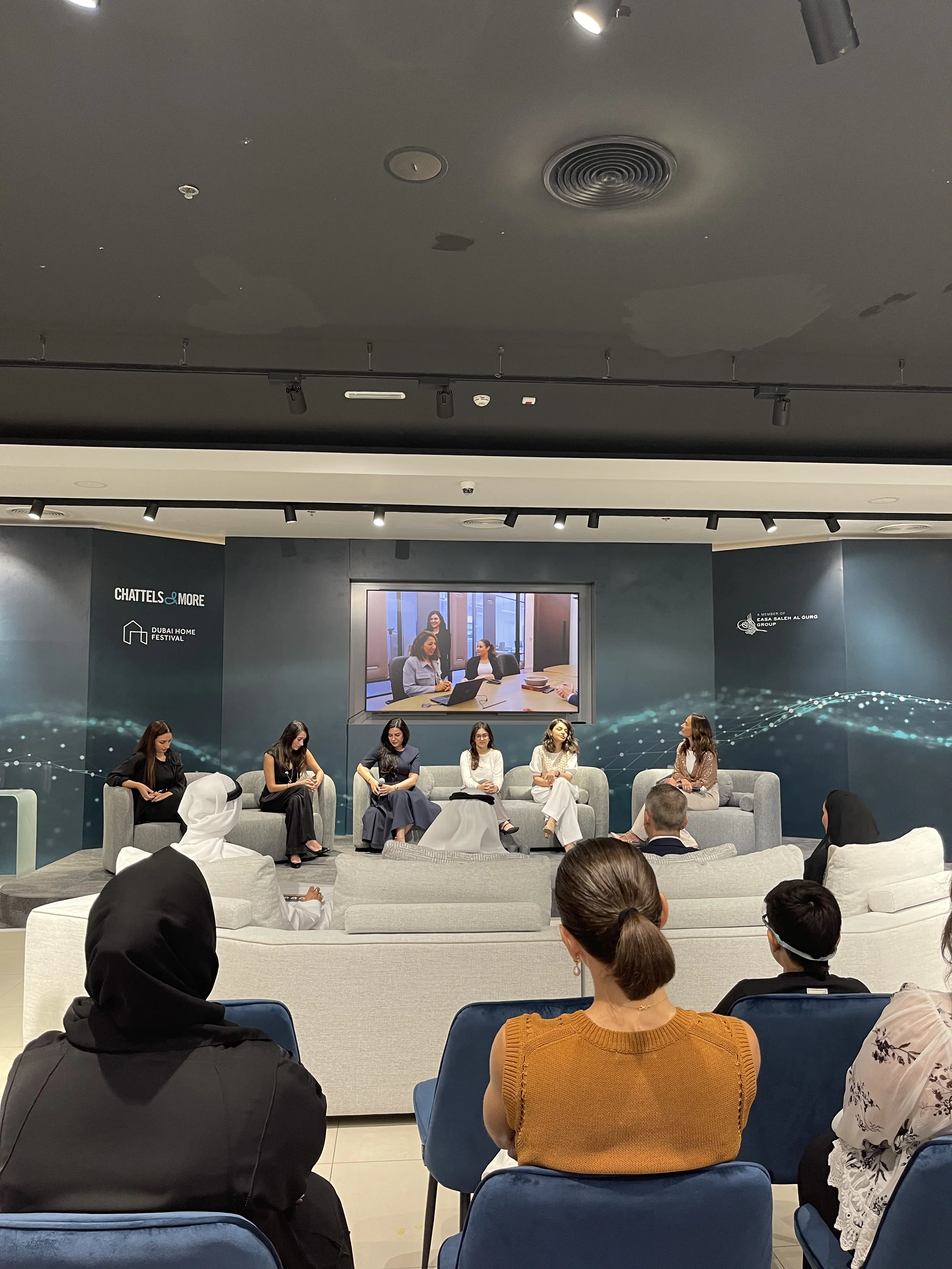
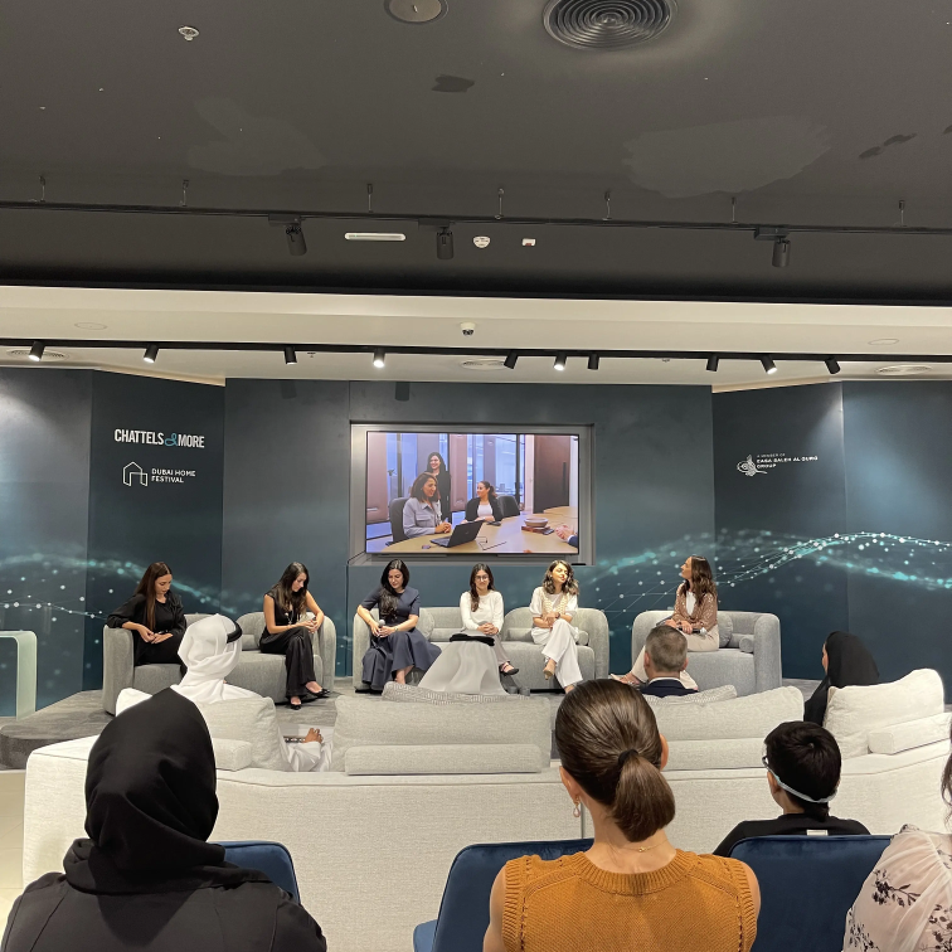
Change of home page image to inherit mobile view and Kabayel Prime. Taxi

diff --git a/src/app/portfolio/al-kabayel-prime/page.jsx b/src/app/portfolio/al-kabayel-prime/page.jsx
@@ -7,11 +7,10 @@ import SectionHeading from "@/app/ui/SectionHeading";
 import Spacing from "@/app/ui/Spacing";
 import Image from "next/image";
 import VideoModal from "@/app/ui/VideoModal";
-import imgUrl from '../../../../public/images/projects/kabayel/kabayel 1.webp';
-import aboutImg2 from '../../../../public/images/projects/kabayel/1.webp';
-import aboutImg3 from '../../../../public/images/projects/kabayel/2.webp';
-import aboutImg4 from '../../../../public/images/projects/kabayel/3.webp';
-import aboutImg5 from '../../../../public/images/projects/kabayel/truck.webp'
+import imgUrl from '../../../../public/images/projects/alkabayelp/1.webp';
+import aboutImg2 from '../../../../public/images/projects/alkabayelp/2.webp';
+import aboutImg3 from '../../../../public/images/projects/alkabayelp/3.webp';
+import aboutImg4 from '../../../../public/images/projects/alkabayelp/4.webp';
 
 export default function PortfolioDetailsPage() {
   return (
@@ -92,7 +91,7 @@ export default function PortfolioDetailsPage() {
 
         <Spacing lg='80' md='40' />
         <Div className="row">
-          <Div className="col-lg-3 col-sm-6">
+          <Div className="col-lg-4 col-sm-5">
             <Image
               src={aboutImg2}
               alt="Al Kabayel Prime Campaign Image 1"
@@ -100,7 +99,7 @@ export default function PortfolioDetailsPage() {
             />
             <Spacing lg="25" md="25" />
           </Div>
-          <Div className="col-lg-3 col-sm-6">
+          <Div className="col-lg-4 col-sm-5">
             <Image
               src={aboutImg3}
               alt="Al Kabayel Prime Campaign Image 2"
@@ -108,18 +107,10 @@ export default function PortfolioDetailsPage() {
             />
             <Spacing lg="25" md="25" />
           </Div>
-          <Div className="col-lg-3 col-sm-6">
+          <Div className="col-lg-4 col-sm-5">
             <Image
               src={aboutImg4}
               alt="Al Kabayel Prime Campaign Image 3"
-              className="w-100 cs-radius_15"
-            />
-            <Spacing lg="25" md="25" />
-          </Div>
-          <Div className="col-lg-3 col-sm-6">
-            <Image
-              src={aboutImg5}
-              alt="Al Kabayel Prime Campaign Image 4"
               className="w-100 cs-radius_15"
             />
             <Spacing lg="25" md="25" />

diff --git a/src/app/portfolio/chattels-and-more/page.jsx b/src/app/portfolio/chattels-and-more/page.jsx
@@ -11,6 +11,7 @@ import img5978 from '../../../../public/images/projects/chattels and more/IMG_59
 import img5979 from '../../../../public/images/projects/chattels and more/IMG_5979.webp';
 import img5981 from '../../../../public/images/projects/chattels and more/IMG_5981.webp';
 import img5982 from '../../../../public/images/projects/chattels and more/IMG_5982.webp';
+import img5983 from '../../../../public/images/projects/chattels and more/IMG_5983.webp';
 
 export default function PortfolioDetailsPage() {
   return (
@@ -131,7 +132,7 @@ export default function PortfolioDetailsPage() {
         </Div>
         <Spacing lg='10' md='10' />
         <Div className="row">
-          <Div className="col-lg-6 col-sm-6">
+          <Div className="col-lg-4 col-sm-6">
             <Image
               src={img5981}
               alt="Chattels & More Billboard Sheikh Zayed Road 4"
@@ -140,9 +141,18 @@ export default function PortfolioDetailsPage() {
             />
             <Spacing lg="25" md="25" />
           </Div>
-          <Div className="col-lg-6 col-sm-6">
+          <Div className="col-lg-4 col-sm-6">
             <Image
               src={img5982}
+              alt="Chattels & More Billboard Sheikh Zayed Road 5"
+              placeholder="blur"
+              className="w-100 cs-radius_15"
+            />
+            <Spacing lg="25" md="25" />
+          </Div>
+          <Div className="col-lg-4 col-sm-12">
+            <Image
+              src={img5983}
               alt="Chattels & More Billboard Sheikh Zayed Road 5"
               placeholder="blur"
               className="w-100 cs-radius_15"

diff --git a/src/app/page.jsx b/src/app/page.jsx
@@ -172,8 +172,8 @@ export default function Home() {
         scrollDownId="#service"
         socialLinksHeading="Follow Us"
         heroSocialLinks={heroSocialLinks}
-        bgImageUrl="/images/homeback.webp"
-        bgImageUrlMob="/images/homebackmob.webp"
+        bgImageUrl="/images/hero_bg.webp"
+        bgImageUrlMob="/images/homebackmob1.webp"
       />
       {/* End Hero Section */}
 
